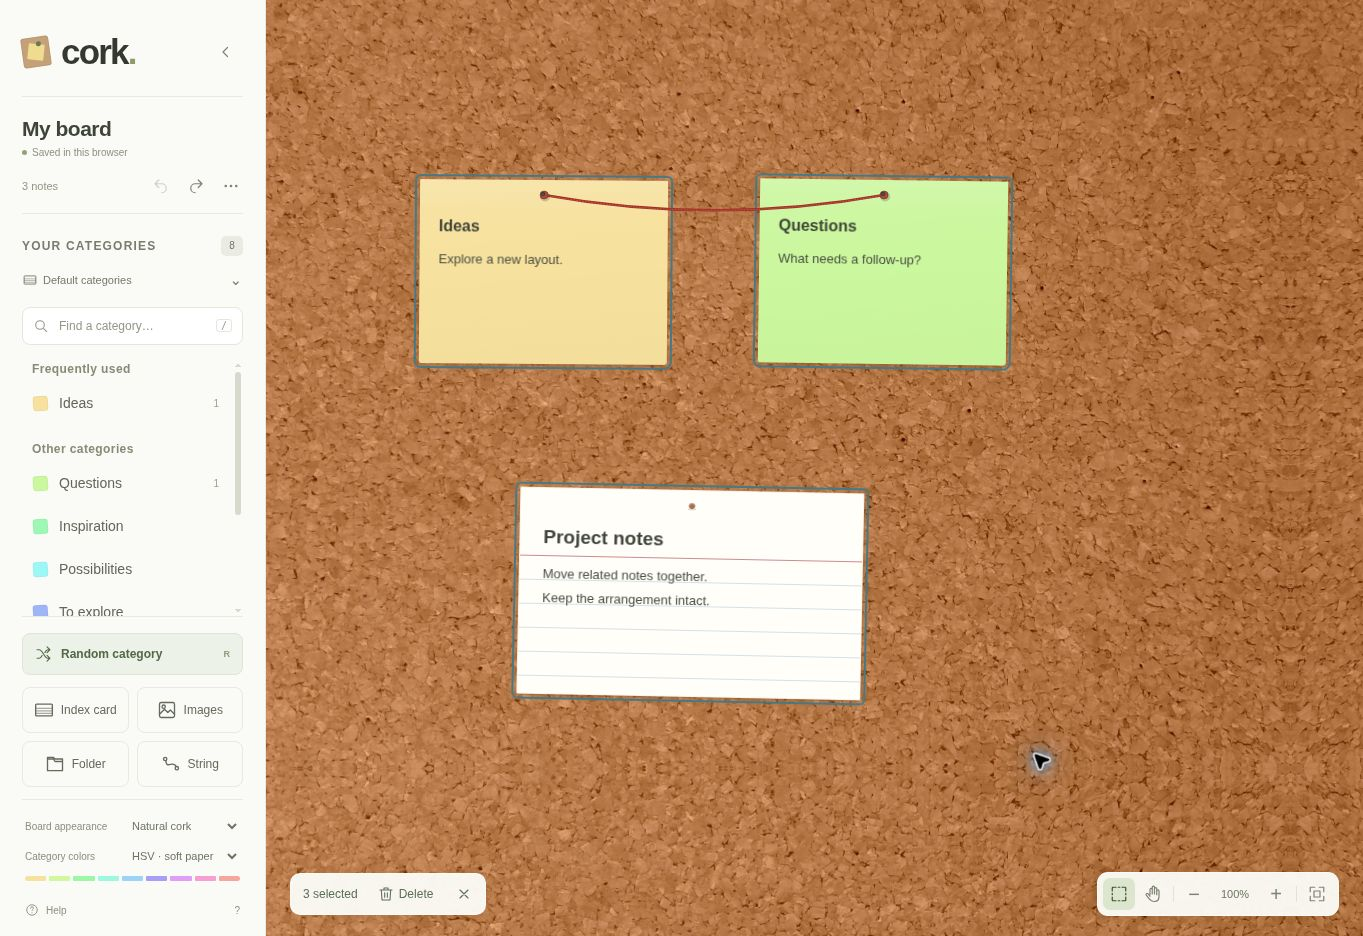
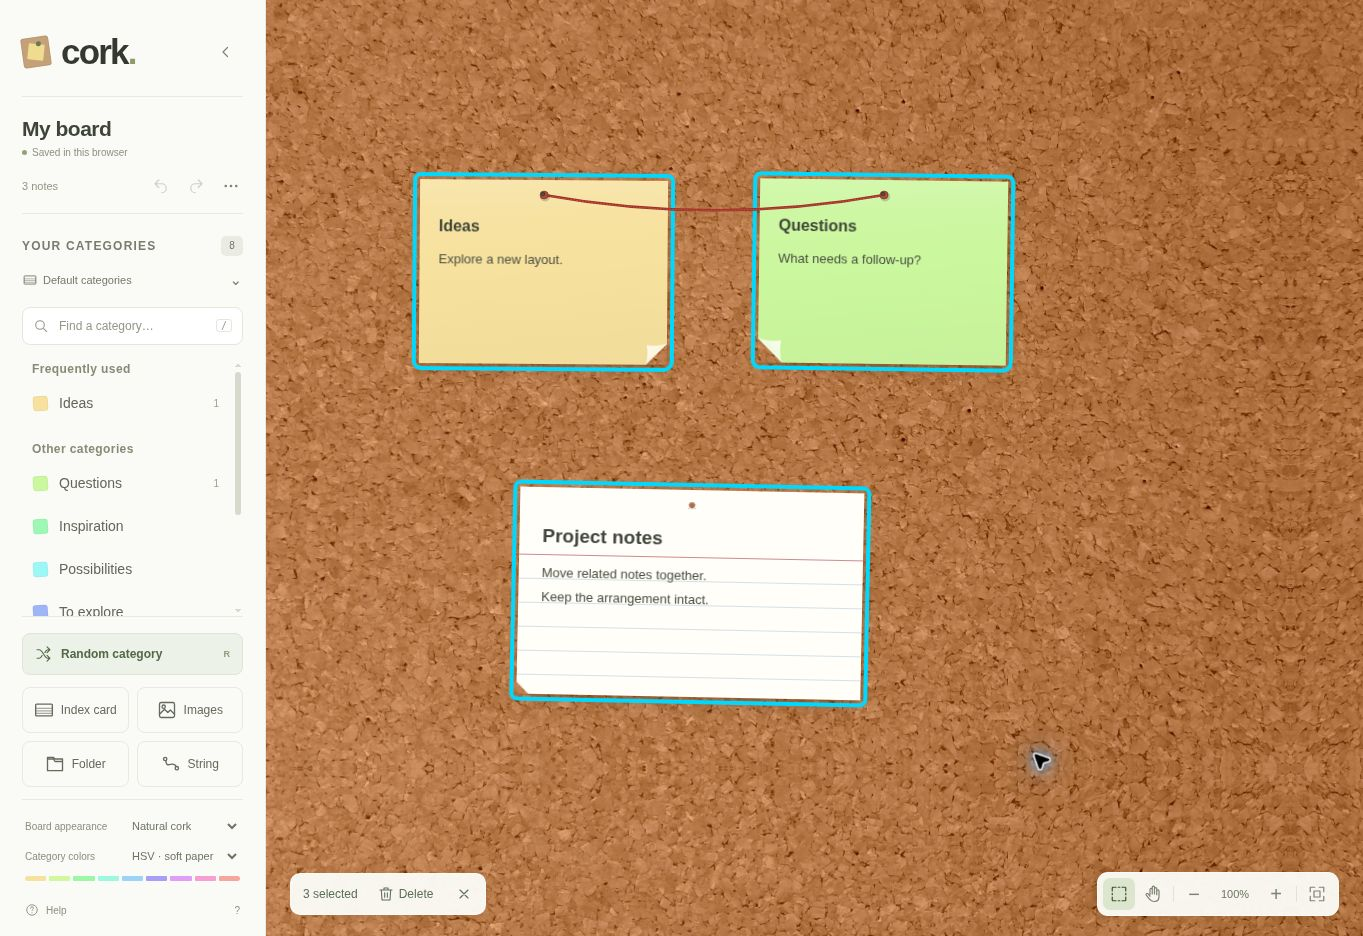
Update screenshots for bright selection and curled paper styling

Changed region(s): [[0.2773, 0.1549, 0.7704, 0.4028], [0.3698, 0.4957, 0.6471, 0.7746]]

diff --git a/README.md b/README.md
@@ -88,6 +88,8 @@ No category count is hard-coded. Maintainers can still edit the repository list 
 
 The board uses a bundled photograph of real cork. The grain moves and scales with the notes as you pan and zoom, and mirrored photo edges keep the surface continuous. Board items cast soft shadows. Notes, index cards, and Polaroids have a small lifted lower corner, with a varied side and size that stays consistent across visits and board backups. Cards and photos curl less than sticky notes. Selected items use a bright, thick cyan outline. Index cards have white cardstock, a blank heading area, a red header rule, and blue lines that stay aligned as the title grows. PDF export keeps the paper detail and omits board shadows. Asset source and license are in [assets/README.md](./assets/README.md).
 
+![Soft shadows and small, varied corner curls on sticky notes and an index card.](./docs/cork-paper.jpg)
+
 At the bottom of the sidebar, choose **Natural cork**, **Pale cork**, or **Dark cork** and independently choose a category color map:
 
 | Color map | Character |
